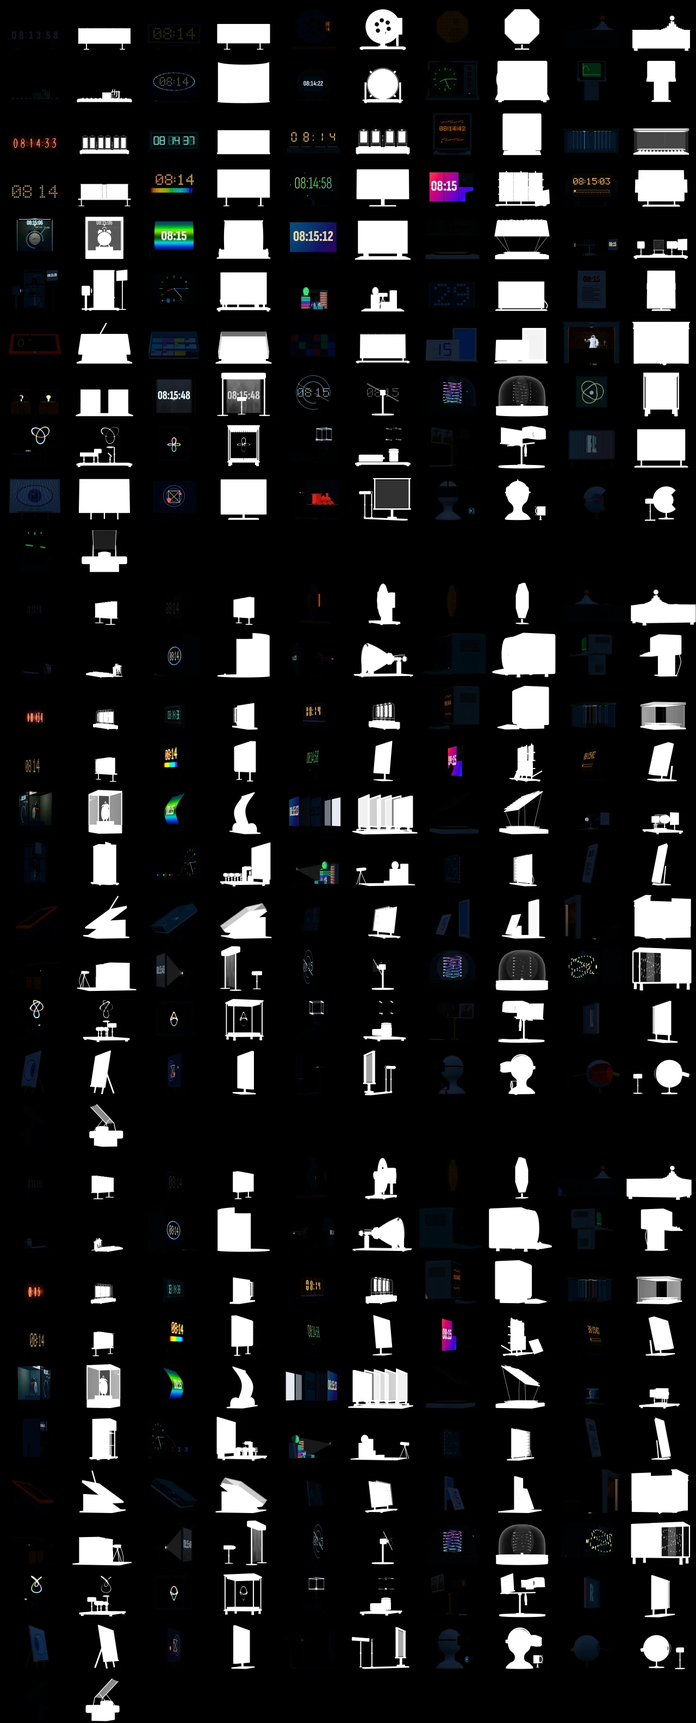
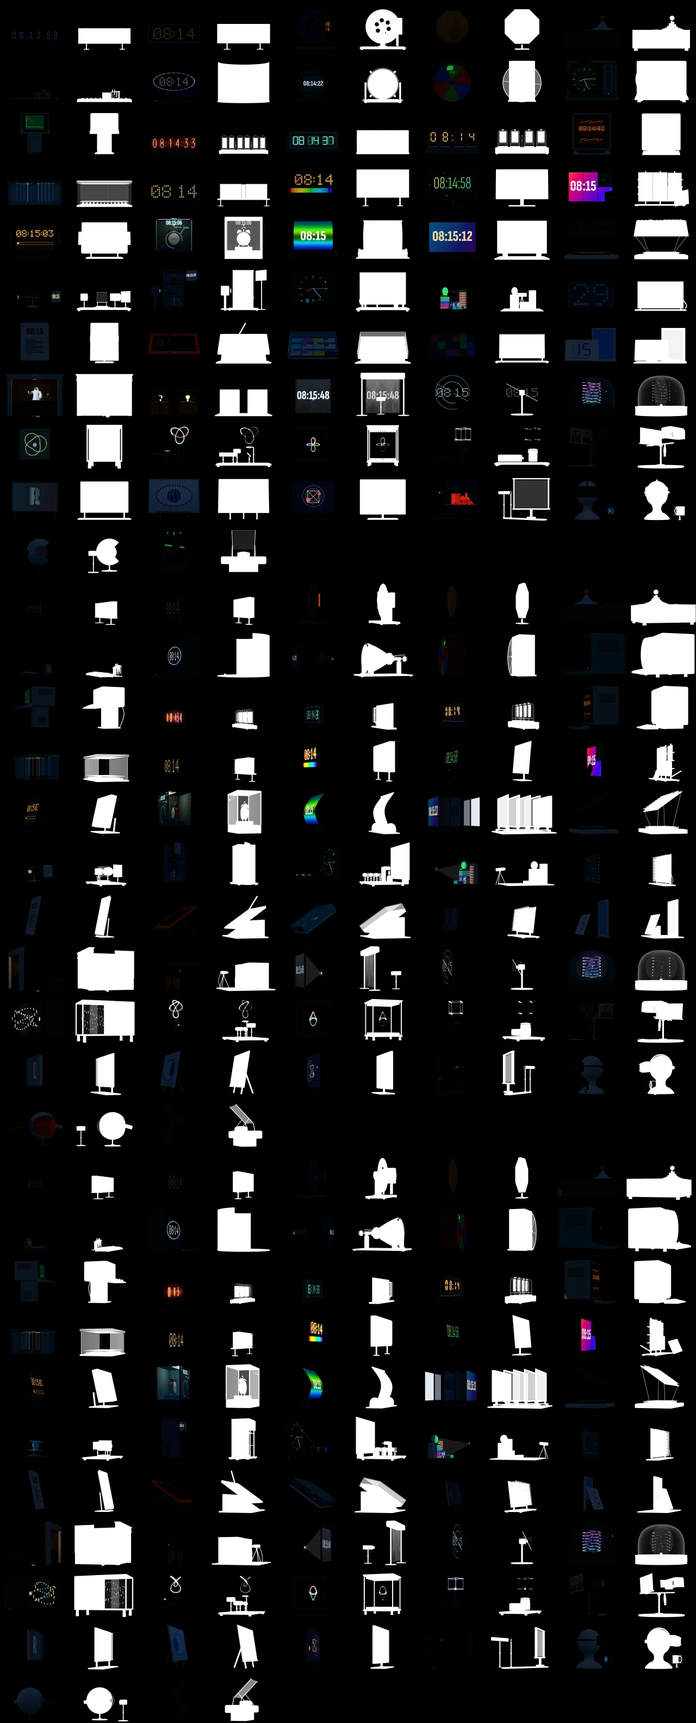
A new piece: the colour-wheel television of Guillermo González Camarena
Hall 2 gains a tenth piece. A black-and-white tube shows the red, green
and blue parts of a picture in turn, and a wheel of filters turning in
front of it colours each one. The model turns the wheel slowly first,
so that the three separate pictures can be seen on the tube, and then
at speed, where they merge. González Camarena patented the adapter in
Mexico on 19 August 1940, at the age of 23.

Label, sources, fact, People, still pictures and cut-outs, in all six
languages. The People section also names the German application of
1904 that already described a filter wheel, and CBS's own system.

Claude-Session: https://claude.ai/code/session_01KP7tcprV3yrddMW1oAunK2

diff --git a/src/i18n/locales/fr.ts b/src/i18n/locales/fr.ts
@@ -363,6 +363,19 @@ const locale: Locale = {
       bad: ['Devient plus profond et plus lourd, avec plus de vide à contenir, à mesure que l’écran grandit', 'Demande une haute tension, et son ampoule de verre subit la pression de l’air extérieur', 'Redessine sans cesse son image sans la conserver, si bien que l’image scintille'],
       look: 'Appuyez sur le bouton «\u202fS’asseoir devant\u202f». La bande brillante qui descend sur l’écran est l’endroit où le faisceau vient de tracer ses lignes. Le modèle ralentit ce mouvement environ 60\u00a0fois. Faites ensuite tourner le modèle et regardez de côté les bobines de cuivre du col, qui guident le faisceau.',
     },
+    'colour-wheel-television': {
+      name: 'Télévision à roue chromatique', aka: 'Couleur à trames séquentielles, adaptateur chromoscopique',
+      origin: 'Guillermo González Camarena, Mexico. Brevet mexicain du 19 août 1940, brevet américain délivré en 1942',
+      statusNote: 'Plus aucun téléviseur n’est construit ainsi. Le principe survit partout où un afficheur rapide reçoit ses trois couleurs tour à tour.',
+      lead: 'Un tube en noir et blanc montre l’une après l’autre les parties rouge, verte et bleue d’une image, et une roue de filtres qui tourne donne à chacune sa couleur.',
+      how: [
+        'Le tube ne produit que de la lumière blanche. Devant lui tourne un disque de filtres rouges, verts et bleus. Pendant que passe le filtre rouge, le tube montre la partie rouge de l’image. La partie verte suit derrière le filtre vert, puis la bleue. Une seconde roue tourne au même rythme devant la caméra. L’œil ne peut pas suivre les changements et voit une seule image en couleurs.',
+        'González Camarena a breveté son adaptateur au Mexique en 1940, à l’âge de 23 ans. Il l’a conçu pour s’adapter aux caméras et aux récepteurs en noir et blanc déjà en service. L’idée de la roue chromatique était plus ancienne\u202f: une demande de brevet allemande de 1904 en décrivait déjà une. La télévision a ensuite choisi des tubes qui montrent les trois couleurs en même temps.',
+      ],
+      good: ['Ajoute la couleur à un système en noir et blanc avec une seule pièce mobile', 'Se passe de motif de points colorés\u202f: l’image est aussi nette que le tube', 'Place les trois couleurs exactement au même endroit'],
+      bad: ['La roue doit être bien plus grande que l’image', 'Un objet rapide se décompose en éclairs rouges, verts et bleus', 'Le tube doit montrer trois images dans le temps d’une seule, sinon l’image scintille'],
+      look: 'La maquette fait d’abord tourner la roue lentement. Regardez l’écran placé derrière\u202f: le tube montre trois images différentes tour à tour, et les barres changent au passage de chaque filtre. Puis la roue tourne à pleine vitesse et les trois images se fondent en une seule. Éteignez la lumière du jour pour voir l’écran seul.',
+    },
     'vector-display': {
       name: 'Écran vectoriel', aka: 'Écran à balayage cavalier, moniteur XY',
       origin: 'Ordinateur Whirlwind du MIT, dont la démonstration Bouncing Ball tournait sur un tel écran',
@@ -947,6 +960,7 @@ const locale: Locale = {
     'braille-display': 'En 1985, le fisc américain employait déjà plus de 100\u00a0personnes aveugles ou malvoyantes pour répondre au téléphone aux questions des contribuables. Ses publications fiscales leur étaient fournies sur cassette, pour être lues en braille sur une plage de 20\u00a0cellules.',
     'drone-show': 'Le vol record montré à l’ouverture des Jeux olympiques d’hiver de 2018 était un enregistrement réalisé à l’avance. Un vol en direct était prévu pour le public du stade, puis il a été annulé à la dernière minute.',
     'cathode-ray-tube': 'Un tube image émet des rayons X quand il fonctionne, et son verre contient du plomb pour les arrêter. L’Agence américaine de protection de l’environnement indiquait en 2002 qu’un écran d’ordinateur ordinaire pouvait contenir jusqu’à huit livres de plomb, soit environ 3,6\u00a0kilogrammes.',
+    'colour-wheel-television': 'Le brevet original de 1940 est conservé aux archives nationales du Mexique, l’Archivo General de la Nación. González Camarena y présente son invention comme un adaptateur simple et nouveau, qui pouvait s’ajouter à n’importe quel téléviseur en noir et blanc de l’époque.',
     'vector-display': 'La console de salon Vectrex, sortie en 1982, avait un tube vectoriel intégré. Son écran était en noir et blanc\u202f: la couleur venait donc de feuilles de plastique posées sur le verre.',
     'storage-tube': 'Son ancêtre, le Memory Tube d’Andrew Haeff, dans les années\u00a01940, a été conçu comme une mémoire d’ordinateur, pour enregistrer des nombres et les relire. Les ordinateurs ont adopté un tube concurrent, et le principe a survécu comme écran, lu par une personne qui regarde le verre.',
     'nixie-tube': 'Le premier prototype de Burroughs a tenu une nuit\u202f: au matin, il s’était déposé tant de métal des chiffres à l’intérieur du verre qu’on ne les voyait plus. Un peu de vapeur de mercure a réglé le problème, et les tubes suivants ont fonctionné plus de 200\u202f000\u00a0heures.',
@@ -1001,6 +1015,7 @@ const locale: Locale = {
     'braille-display': { did: ['Ont breveté des points braille soulevés par des lames piézoélectriques. Leur première demande a été déposée en France, en 1974.', 'A inventé un module braille piézoélectrique en Allemagne en 1975.', 'A mis au point le plus ancien afficheur braille en état de marche dont on ait la trace, chez IBM vers 1950.'] },
     'drone-show': { did: ['Directeur de l’Ars Electronica Futurelab, à Linz. Son équipe et Intel ont fait voler 100\u00a0drones lumineux près de Hambourg en novembre 2015.'] },
     'cathode-ray-tube': { did: ['A construit le premier tube cathodique, en Allemagne en 1897.', 'A montré un récepteur de télévision à tube cathodique, au Japon en 1926.', 'A transmis la première image de télévision entièrement électronique, à San Francisco en 1927.', 'Surnommée Pem. Elle a travaillé aux côtés de Philo Farnsworth dans ses laboratoires, et son visage a été l’un des premiers que son système ait transmis.'] },
+    'colour-wheel-television': { did: ['Ingénieur électricien mexicain. Il a breveté l’adaptateur au Mexique en 1940, à l’âge de 23 ans, puis aux États-Unis deux ans plus tard.', 'Ont demandé en Allemagne, en 1904, un brevet pour un système de couleur à roue de filtres.', 'Ingénieur à la Columbia Broadcasting System, qui a construit dans les mêmes années sa propre télévision à roue chromatique.'] },
     'storage-tube': { did: ['A mis au point le tube à mémoire chez Tektronix.', 'A construit le Memory Tube dans les années 1940, l’ancêtre dont Tektronix a fait un écran.'] },
     'nixie-tube': { did: ['L’ingénieur le plus souvent cité comme son inventeur.'], note: 'La paternité de l’invention n’est pas claire. National Union vendait un tube semblable, l’Inditron, en 1954, et des brevets portant sur des chiffres dans des lampes à lueur remontent aux années\u00a01930.' },
     'vacuum-fluorescent': { did: ['Fondateur d’Ise Electronics, au Japon. Il a inventé l’afficheur et l’a mis en vente en 1967.', 'Dirigeait le développement des calculatrices chez Hayakawa Electric, aujourd’hui Sharp, et a demandé à Nakamura un afficheur à basse tension.'] },

diff --git a/src/i18n/locales/es.ts b/src/i18n/locales/es.ts
@@ -370,6 +370,19 @@ const locale: Locale = {
       bad: ['Se vuelve más profundo y pesado, y tiene más vacío que contener, a medida que crece la pantalla', 'Necesita un voltaje alto, y su ampolla de vidrio soporta la presión del aire exterior', 'Redibuja la imagen sin parar y no la retiene, así que la imagen parpadea'],
       look: 'Pulsa el botón «Siéntate delante». La franja brillante que baja por la pantalla es la zona donde el haz acaba de trazar sus líneas. El modelo ralentiza este proceso unas 60 veces. Después gira el modelo y mira de lado las bobinas de cobre del cuello, que guían el haz.',
     },
+    'colour-wheel-television': {
+      name: 'Televisión de rueda de colores', aka: 'Color secuencial de campos, adaptador cromoscópico',
+      origin: 'Guillermo González Camarena, Ciudad de México. Patente mexicana del 19 de agosto de 1940, patente de Estados Unidos concedida en 1942',
+      statusNote: 'Ya no se fabrica ningún televisor así. El principio sobrevive allí donde una pantalla rápida recibe sus tres colores por turnos.',
+      lead: 'Un tubo de imagen en blanco y negro muestra una tras otra las partes roja, verde y azul de una imagen, y una rueda giratoria de filtros da a cada parte su color.',
+      how: [
+        'El tubo solo produce luz blanca. Delante de él gira un disco con filtros rojos, verdes y azules. Mientras pasa el filtro rojo, el tubo muestra la parte roja de la imagen. Después llega la parte verde, tras el filtro verde, y luego la azul. Una segunda rueda gira al mismo ritmo delante de la cámara. El ojo no puede seguir los cambios y ve una sola imagen a todo color.',
+        'González Camarena patentó su adaptador en México en 1940, a los 23 años. Lo diseñó para acoplarlo a las cámaras y los receptores en blanco y negro que ya estaban en uso. La idea de la rueda de colores era más antigua: una solicitud de patente alemana de 1904 ya describía una. Más tarde, la televisión se decantó por tubos que muestran los tres colores a la vez.',
+      ],
+      good: ['Añade color a un sistema en blanco y negro con una sola pieza móvil', 'No necesita un patrón de puntos de colores, así que la imagen es tan nítida como el tubo', 'Pone los tres colores exactamente en el mismo lugar'],
+      bad: ['La rueda tiene que ser mucho mayor que la imagen', 'Un objeto que se mueve deprisa se descompone en destellos rojos, verdes y azules', 'El tubo debe mostrar tres imágenes en el tiempo de una, o la imagen parpadea'],
+      look: 'El modelo hace girar primero la rueda despacio. Observa la pantalla que hay detrás: el tubo muestra tres imágenes distintas por turnos, y las barras cambian al pasar cada filtro. Después la rueda gira deprisa y las tres imágenes se funden en una. Apaga la luz del día para ver la pantalla sola.',
+    },
     'vector-display': {
       name: 'Pantalla vectorial', aka: 'Pantalla caligráfica, monitor XY',
       origin: 'Ordenador Whirlwind del MIT, cuya demostración Bouncing Ball se mostraba en una pantalla de este tipo',
@@ -954,6 +967,7 @@ const locale: Locale = {
     'braille-display': 'En 1985 la agencia tributaria de Estados Unidos ya empleaba a más de 100 personas ciegas o con baja visión para atender por teléfono las preguntas de los contribuyentes. Sus publicaciones fiscales se les entregaban en cintas de casete, para leerlas en braille en una línea de 20 celdas.',
     'drone-show': 'El vuelo récord que se vio en la inauguración de los Juegos Olímpicos de Invierno de 2018 era una grabación hecha con antelación. Se había previsto un vuelo en directo para el público del estadio, y se canceló en el último momento.',
     'cathode-ray-tube': 'Un tubo de imagen emite rayos X mientras funciona, y el vidrio contiene plomo para detenerlos. La Agencia de Protección Ambiental de Estados Unidos dijo en 2002 que un monitor de ordenador corriente podía contener hasta ocho libras de plomo, unos 3,6 kilogramos.',
+    'colour-wheel-television': 'La patente original de 1940 se conserva en el archivo nacional de México, el Archivo General de la Nación. En ella, González Camarena describe su invento como un adaptador sencillo y novedoso que podía acoplarse a cualquier televisor en blanco y negro de la época.',
     'vector-display': 'La consola doméstica Vectrex, de 1982, llevaba incorporado un tubo vectorial. La pantalla era en blanco y negro, así que el color lo ponían unas láminas de plástico colocadas sobre el vidrio.',
     'storage-tube': 'Su antepasado, el Memory Tube de Andrew Haeff, de la década de 1940, se diseñó como memoria de ordenador, para guardar números y volver a leerlos. Los ordenadores adoptaron un tubo rival, y el diseño sobrevivió como pantalla, leída por una persona que mira el vidrio.',
     'nixie-tube': 'El primer prototipo de Burroughs duró una noche: por la mañana se había depositado tanto metal de las cifras en el interior del vidrio que ya no se veían. Un poco de vapor de mercurio resolvió el problema, y los tubos posteriores funcionaron más de 200.000 horas.',
@@ -1008,6 +1022,7 @@ const locale: Locale = {
     'braille-display': { did: ['Patentaron puntos braille levantados por láminas piezoeléctricas. Presentaron la primera solicitud en Francia, en 1974.', 'Inventó un módulo braille piezoeléctrico en Alemania en 1975.', 'Desarrolló la línea braille en funcionamiento más antigua de la que hay constancia, en IBM hacia 1950.'] },
     'drone-show': { did: ['Director del Ars Electronica Futurelab, en Linz. Su equipo e Intel hicieron volar 100 drones iluminados cerca de Hamburgo en noviembre de 2015.'] },
     'cathode-ray-tube': { did: ['Construyó el primer tubo de rayos catódicos, en Alemania en 1897.', 'Mostró un receptor de televisión basado en un tubo de rayos catódicos, en Japón en 1926.', 'Transmitió la primera imagen de televisión totalmente electrónica, en San Francisco en 1927.', 'Conocida como Pem. Trabajó junto a Philo Farnsworth en sus laboratorios, y su rostro estuvo entre los primeros que transmitió su sistema.'] },
+    'colour-wheel-television': { did: ['Ingeniero eléctrico mexicano. Patentó el adaptador en México en 1940, a los 23 años, y en Estados Unidos dos años después.', 'Solicitaron en Alemania, en 1904, una patente de un sistema de color con rueda de filtros.', 'Ingeniero de la Columbia Broadcasting System, que construyó en los mismos años su propia televisión de rueda de colores.'] },
     'storage-tube': { did: ['Desarrolló el tubo de almacenamiento en Tektronix.', 'Construyó el Memory Tube en la década de 1940, el antecesor que Tektronix convirtió en pantalla.'] },
     'nixie-tube': { did: ['El ingeniero al que más a menudo se nombra como su inventor.'], note: 'La autoría del invento no está clara. National Union vendía un tubo parecido, el Inditron, en 1954, y las patentes de cifras en lámparas de descarga luminiscente se remontan a la década de 1930.' },
     'vacuum-fluorescent': { did: ['Fundador de Ise Electronics, en Japón. Inventó la pantalla y la puso a la venta en 1967.', 'Dirigía el desarrollo de calculadoras en Hayakawa Electric, hoy Sharp, y pidió a Nakamura una pantalla de bajo voltaje.'] },

diff --git a/src/i18n/locales/ca.ts b/src/i18n/locales/ca.ts
@@ -438,6 +438,19 @@ const locale: Locale = {
       ],
       look: "Prem el botó «Seu al davant». La franja lluminosa que baixa per la pantalla és on el feix acaba de dibuixar les línies. El model ho alenteix unes 60 vegades. Després fes girar el model i mira de costat les bobines de coure del coll, que guien el feix.",
     },
+    'colour-wheel-television': {
+      name: 'Televisió de roda de colors', aka: 'Color seqüencial de camps, adaptador cromoscòpic',
+      origin: "Guillermo González Camarena, Ciutat de Mèxic. Patent mexicana del 19 d'agost del 1940, patent dels Estats Units concedida el 1942",
+      statusNote: 'Ja no es fabrica cap televisor així. El principi sobreviu allà on una pantalla ràpida rep els seus tres colors per torns.',
+      lead: "Un tub d'imatge en blanc i negre mostra una rere l'altra les parts vermella, verda i blava d'una imatge, i una roda giratòria de filtres dona a cada part el seu color.",
+      how: [
+        "El tub només fa llum blanca. Al seu davant gira un disc amb filtres vermells, verds i blaus. Mentre passa el filtre vermell, el tub mostra la part vermella de la imatge. Després ve la part verda, darrere el filtre verd, i després la blava. Una segona roda gira al mateix ritme davant de la càmera. L'ull no pot seguir els canvis i veu una sola imatge a tot color.",
+        'González Camarena va patentar el seu adaptador a Mèxic el 1940, als 23 anys. El va dissenyar per acoblar-lo a les càmeres i els receptors en blanc i negre que ja es feien servir. La idea de la roda de colors era més antiga: una sol·licitud de patent alemanya del 1904 ja en descrivia una. Més endavant, la televisió es va decantar per tubs que mostren els tres colors alhora.',
+      ],
+      good: ['Afegeix color a un sistema en blanc i negre amb una sola peça mòbil', 'No necessita cap patró de punts de colors, i per això la imatge és tan nítida com el tub', 'Posa els tres colors exactament al mateix lloc'],
+      bad: ['La roda ha de ser molt més gran que la imatge', 'Un objecte que es mou de pressa es descompon en llampades vermelles, verdes i blaves', "El tub ha de mostrar tres imatges en el temps d'una, o la imatge parpelleja"],
+      look: 'El model fa girar primer la roda a poc a poc. Mira la pantalla que hi ha al darrere: el tub mostra tres imatges diferents per torns, i les barres canvien cada cop que passa un filtre. Després la roda gira de pressa i les tres imatges es fonen en una. Apaga la llum del dia per veure la pantalla sola.',
+    },
     'vector-display': {
       name: "Pantalla vectorial",
       aka: "Pantalla cal·ligràfica, monitor XY",
@@ -1368,6 +1381,7 @@ const locale: Locale = {
     'braille-display': "El 1985 l'agència tributària dels Estats Units ja tenia més de 100 treballadors cecs o amb baixa visió per respondre per telèfon les preguntes dels contribuents. Les publicacions fiscals els arribaven en cintes de casset, per llegir-les en braille en una línia de 20 cel·les.",
     'drone-show': "El vol de rècord que es va veure a la inauguració dels Jocs Olímpics d'Hivern del 2018 era un enregistrament fet amb antelació. S'havia previst un vol en directe per al públic de l'estadi, i es va cancel·lar a l'últim moment.",
     'cathode-ray-tube': "Un tub d'imatge emet raigs X mentre funciona, i el vidre conté plom per aturar-los. L'Agència de Protecció Ambiental dels Estats Units va dir el 2002 que un monitor d'ordinador corrent podia contenir fins a vuit lliures de plom, uns 3,6 quilograms.",
+    'colour-wheel-television': "La patent original del 1940 es conserva a l'arxiu nacional de Mèxic, l'Archivo General de la Nación. González Camarena hi descriu el seu invent com un adaptador senzill i nou que es podia acoblar a qualsevol televisor en blanc i negre de l'època.",
     'vector-display': "La consola domèstica Vectrex, del 1982, portava un tub vectorial incorporat. La pantalla era en blanc i negre, de manera que el color el posaven unes làmines de plàstic col·locades sobre el vidre.",
     'storage-tube': "El seu avantpassat, el Memory Tube d'Andrew Haeff, de la dècada del 1940, es va dissenyar com a memòria d'ordinador, per guardar nombres i tornar-los a llegir. Els ordinadors van adoptar un tub rival, i el disseny va sobreviure com a pantalla, llegida per una persona que mira el vidre.",
     'nixie-tube': "El primer prototip de Burroughs va durar una nit: al matí s'havia dipositat tant de metall de les xifres a l'interior del vidre que ja no es veien. Una mica de vapor de mercuri va resoldre el problema, i els tubs posteriors van funcionar més de 200.000 hores.",
@@ -1422,6 +1436,7 @@ const locale: Locale = {
     'braille-display': { did: ['Van patentar punts braille aixecats per làmines piezoelèctriques. Van presentar la primera sol·licitud a França, el 1974.', 'Va inventar un mòdul braille piezoelèctric a Alemanya el 1975.', 'Va desenvolupar la línia braille en funcionament més antiga de què hi ha constància, a IBM cap al 1950.'] },
     'drone-show': { did: ["Director de l'Ars Electronica Futurelab, a Linz. El seu equip i Intel van fer volar 100 drons il·luminats prop d'Hamburg el novembre del 2015."] },
     'cathode-ray-tube': { did: ['Va construir el primer tub de raigs catòdics, a Alemanya el 1897.', 'Va mostrar un receptor de televisió basat en un tub de raigs catòdics, al Japó el 1926.', 'Va transmetre la primera imatge de televisió totalment electrònica, a San Francisco el 1927.', 'Coneguda com a Pem. Va treballar al costat de Philo Farnsworth als seus laboratoris, i la seva cara va ser una de les primeres que el sistema va transmetre.'] },
+    'colour-wheel-television': { did: ["Enginyer elèctric mexicà. Va patentar l'adaptador a Mèxic el 1940, als 23 anys, i als Estats Units dos anys després.", "Van sol·licitar a Alemanya, el 1904, una patent d'un sistema de color amb roda de filtres.", 'Enginyer de la Columbia Broadcasting System, que va construir en els mateixos anys la seva pròpia televisió de roda de colors.'] },
     'storage-tube': { did: ["Va desenvolupar el tub d'emmagatzematge a Tektronix.", "Va construir el Memory Tube a la dècada del 1940, l'avantpassat que Tektronix va convertir en pantalla."] },
     'nixie-tube': { did: ["L'enginyer a qui més sovint s'anomena com a inventor."], note: "L'autoria de l'invent no és clara. National Union ja venia un tub semblant, l'Inditron, el 1954, i les patents de xifres en làmpades de descàrrega luminescent es remunten a la dècada del 1930." },
     'vacuum-fluorescent': { did: ["Fundador d'Ise Electronics, al Japó. Va inventar la pantalla i la va posar a la venda el 1967.", 'Dirigia el desenvolupament de calculadores a Hayakawa Electric, avui Sharp, i va demanar a Nakamura una pantalla de baix voltatge.'] },

diff --git a/src/i18n/locales/de.ts b/src/i18n/locales/de.ts
@@ -437,6 +437,19 @@ const locale: Locale = {
       ],
       look: 'Drücken Sie auf „Davorsetzen“. Das helle Band, das über den Schirm nach unten wandert, zeigt, wo der Strahl gerade seine Zeilen gezeichnet hat. Das Modell verlangsamt das etwa 60-fach. Drehen Sie dann das Modell und betrachten Sie von der Seite die Kupferspulen am Hals, die den Strahl lenken.',
     },
+    'colour-wheel-television': {
+      name: 'Farbradfernsehen', aka: 'Zeitsequentielles Farbverfahren, chromoskopischer Adapter',
+      origin: 'Guillermo González Camarena, Mexiko-Stadt. Mexikanisches Patent vom 19. August 1940, US-Patent 1942 erteilt',
+      statusNote: 'Kein Fernseher wird heute noch so gebaut. Das Prinzip lebt überall dort weiter, wo eine schnelle Anzeige ihre drei Farben nacheinander erhält.',
+      lead: 'Eine Schwarz-Weiß-Bildröhre zeigt nacheinander den roten, den grünen und den blauen Anteil eines Bildes, und ein rotierendes Filterrad gibt jedem Anteil seine Farbe.',
+      how: [
+        'Die Röhre selbst erzeugt nur weißes Licht. Vor ihr dreht sich eine Scheibe mit roten, grünen und blauen Filtern. Während der rote Filter vorbeiläuft, zeigt die Röhre den roten Anteil des Bildes. Der grüne Anteil folgt hinter dem grünen Filter, danach der blaue. Ein zweites Rad dreht sich im Gleichtakt vor der Kamera. Das Auge kann den Wechseln nicht folgen und sieht ein einziges Bild in voller Farbe.',
+        'González Camarena ließ seinen Adapter 1940 in Mexiko patentieren, im Alter von 23 Jahren. Er entwarf ihn so, dass er sich an die Schwarz-Weiß-Kameras und -Empfänger anbauen ließ, die bereits in Gebrauch waren. Die Idee des Farbrads war älter: Schon eine deutsche Patentanmeldung von 1904 beschrieb eines. Das Fernsehen entschied sich später für Röhren, die alle drei Farben gleichzeitig zeigen.',
+      ],
+      good: ['Bringt mit einem einzigen beweglichen Teil Farbe in ein Schwarz-Weiß-System', 'Kommt ohne Raster aus Farbpunkten aus, das Bild ist also so scharf wie die Röhre', 'Bringt alle drei Farben an genau dieselbe Stelle'],
+      bad: ['Das Rad muss viel größer sein als das Bild', 'Ein schnell bewegter Gegenstand zerfällt in rote, grüne und blaue Blitze', 'Die Röhre muss drei Bilder in der Zeit von einem zeigen, sonst flimmert das Bild'],
+      look: 'Das Modell dreht das Rad zuerst langsam. Beobachten Sie den Bildschirm dahinter: Die Röhre zeigt nacheinander drei verschiedene Bilder, und die Balken wechseln mit jedem Filter. Dann läuft das Rad schnell, und die drei Bilder verschmelzen zu einem. Schalten Sie das Tageslicht aus, um den Bildschirm allein zu sehen.',
+    },
     'vector-display': {
       name: 'Vektorbildschirm',
       aka: 'Kalligrafischer Bildschirm, XY-Monitor',
@@ -1367,6 +1380,7 @@ const locale: Locale = {
     'braille-display': '1985 beschäftigte die Steuerbehörde der USA bereits mehr als 100\u00a0blinde und sehbehinderte Mitarbeiter, die am Telefon Fragen von Steuerzahlern beantworteten. Die Steuerschriften erhielten sie auf Kassette und lasen sie als Braille auf einer Zeile mit 20\u00a0Zellen.',
     'drone-show': 'Der Rekordflug, der bei der Eröffnung der Olympischen Winterspiele 2018 zu sehen war, war eine vorab gedrehte Aufzeichnung. Ein Liveflug für das Publikum im Stadion war geplant und wurde in letzter Minute abgesagt.',
     'cathode-ray-tube': 'Eine Bildröhre gibt im Betrieb Röntgenstrahlen ab, und das Glas enthält Blei, um sie aufzuhalten. Die Umweltschutzbehörde der USA erklärte 2002, ein typischer Computermonitor könne bis zu acht Pfund Blei enthalten, etwa 3,6\u00a0Kilogramm.',
+    'colour-wheel-television': 'Das Originalpatent von 1940 liegt im mexikanischen Nationalarchiv, dem Archivo General de la Nación. Darin nennt González Camarena seine Erfindung einen einfachen und neuartigen Adapter, der sich an jeden Schwarz-Weiß-Fernseher seiner Zeit anbauen ließ.',
     'vector-display': 'Die Heimkonsole Vectrex von 1982 hatte eine Vektorröhre eingebaut. Ihr Bildschirm war schwarz-weiß, also kam die Farbe von Kunststofffolien, die man auf das Glas legte.',
     'storage-tube': 'Ihr Vorläufer, Andrew Haeffs Memory Tube aus den 1940er-Jahren, war als Computerspeicher gedacht: Er sollte Zahlen speichern und wieder auslesen. Die Computer übernahmen stattdessen eine Konkurrenzröhre, und der Entwurf überlebte als Bildschirm, abgelesen von einem Menschen, der auf das Glas schaut.',
     'nixie-tube': 'Der erste Prototyp bei Burroughs hielt eine Nacht: Am Morgen hatte sich so viel Metall von den Ziffern innen am Glas abgesetzt, dass sie nicht mehr zu sehen waren. Ein wenig Quecksilberdampf löste das Problem, und spätere Röhren liefen mehr als 200.000\u00a0Stunden.',
@@ -1421,6 +1435,7 @@ const locale: Locale = {
     'braille-display': { did: ['Ließen sich Braillepunkte patentieren, die von piezoelektrischen Zungen angehoben werden. Die erste Anmeldung erfolgte 1974 in Frankreich.', 'Erfand 1975 in Deutschland ein piezoelektrisches Braillemodul.', 'Entwickelte um 1950 bei IBM die früheste belegte funktionierende Braillezeile.'] },
     'drone-show': { did: ['Leiter des Ars Electronica Futurelab in Linz. Sein Team und Intel ließen im November 2015 bei Hamburg 100 leuchtende Drohnen fliegen.'] },
     'cathode-ray-tube': { did: ['Baute 1897 in Deutschland die erste Kathodenstrahlröhre.', 'Zeigte 1926 in Japan einen Fernsehempfänger mit Kathodenstrahlröhre.', 'Übertrug 1927 in San Francisco das erste vollelektronische Fernsehbild.', 'Genannt Pem. Sie arbeitete in den Laboren von Philo Farnsworth an seiner Seite, und ihr Gesicht gehörte zu den ersten, die sein System übertrug.'] },
+    'colour-wheel-television': { did: ['Mexikanischer Elektroingenieur. Er ließ den Adapter 1940 in Mexiko patentieren, im Alter von 23 Jahren, und zwei Jahre später in den USA.', 'Meldeten 1904 in Deutschland ein Patent auf ein Farbverfahren mit Filterrad an.', 'Ingenieur beim Columbia Broadcasting System, das in denselben Jahren sein eigenes Farbradfernsehen baute.'] },
     'storage-tube': { did: ['Entwickelte die Speicherröhre bei Tektronix.', 'Baute in den 1940er-Jahren die Memory Tube, den Vorläufer, aus dem Tektronix einen Bildschirm machte.'] },
     'nixie-tube': { did: ['Der Ingenieur, der am häufigsten als Erfinder genannt wird.'], note: 'Wem die Erfindung zuzuschreiben ist, steht nicht fest. National Union verkaufte 1954 eine ähnliche Röhre, das Inditron, und Patente für Ziffern in Glimmlampen reichen bis in die 1930er-Jahre zurück.' },
     'vacuum-fluorescent': { did: ['Gründer von Ise Electronics in Japan. Er erfand die Anzeige und brachte sie 1967 auf den Markt.', 'Leitete die Rechnerentwicklung bei Hayakawa Electric, heute Sharp, und bat Nakamura um eine Anzeige für niedrige Spannung.'] },

diff --git a/src/i18n/locales/zh.ts b/src/i18n/locales/zh.ts
@@ -434,6 +434,19 @@ const locale: Locale = {
       ],
       look: '按“坐到正前方”按钮。屏幕上那条向下移动的亮带，就是电子束刚刚画过的几行。模型把这个过程放慢了大约60倍。然后转动模型，从侧面看管颈上的铜线圈，电子束就是由它们操纵的。',
     },
+    'colour-wheel-television': {
+      name: '色轮电视', aka: '场序制彩色，色镜适配器',
+      origin: 'Guillermo González Camarena，墨西哥城。1940年8月19日获墨西哥专利，1942年获美国专利',
+      statusNote: '如今已没有电视机这样制造。凡是让一块高速显示器轮流得到三种颜色的地方，这一原理都还在用。',
+      lead: '一支黑白显像管依次显示画面的红、绿、蓝三部分，一只旋转的滤色轮给每一部分配上颜色。',
+      how: [
+        '显像管本身只发白光。它前面转着一只装有红、绿、蓝滤色片的圆盘。红色滤色片经过时，显像管显示画面的红色部分；接着是绿色滤色片后面的绿色部分，然后是蓝色部分。摄像机前面有第二只滤色轮同步转动。眼睛跟不上这些变化，看到的是一幅全彩画面。',
+        '1940年，23岁的González Camarena在墨西哥为他的适配器取得专利。按他的设计，它可以装到当时已在使用的黑白摄像机和接收机上。色轮的想法更早：1904年的一份德国专利申请就已描述过。后来电视选择了能同时显示三种颜色的显像管。',
+      ],
+      good: ['只用一个活动部件，就给黑白系统加上了颜色', '不需要彩色点阵，所以画面和显像管本身一样清晰', '三种颜色落在完全相同的位置'],
+      bad: ['色轮必须比画面大得多', '快速运动的物体会散成红、绿、蓝的闪光', '显像管必须在一幅画面的时间里显示三幅，否则画面会闪烁'],
+      look: '模型先让色轮慢慢转。看它后面的屏幕：显像管轮流显示三幅不同的画面，每过一片滤色片，彩条就变一次。接着色轮高速转动，三幅画面合成一幅。关掉日光，可以单独看屏幕。',
+    },
     'vector-display': {
       name: '矢量显示器',
       aka: '笔迹显示器、XY显示器',
@@ -1364,6 +1377,7 @@ const locale: Locale = {
     'braille-display': '到1985年，美国税务部门已经雇用了100多名盲人和低视力员工，在电话里解答纳税人的问题。税务资料录在盒式磁带上发给他们，再用一台20个单元的点显器读成盲文。',
     'drone-show': '2018年冬奥会开幕式上播出的那场创纪录的飞行，是事先录好的。原本计划为现场观众实地飞一场，在最后一刻取消了。',
     'cathode-ray-tube': '显像管工作时会放出X射线，玻璃里掺了铅，用来挡住它们。美国环境保护署在2002年说，一台普通的电脑显示器最多可含8磅铅，约合3.6千克。',
+    'colour-wheel-television': '这份1940年的专利原件保存在墨西哥国家档案馆（Archivo General de la Nación）。González Camarena在其中说，他的发明是一种简单而新颖的适配器，可以装到当时任何一台黑白电视机上。',
     'vector-display': '1982年的家用游戏机Vectrex自带一只矢量显像管。屏幕是黑白的，颜色要靠盖在玻璃上的塑料片。',
     'storage-tube': '它的前身是Andrew Haeff在1940年代研制的Memory Tube，本来是当计算机存储器设计的，用来存数字，再把数字读出来。计算机后来选用了另一种管子，这个设计却作为屏幕留了下来，由人看着玻璃来读。',
     'nixie-tube': 'Burroughs公司的第一只样管只撑了一夜：到了早上，数字上的金属在玻璃内壁积了厚厚一层，数字已经看不见了。加进一点汞蒸气就解决了问题，后来的管子能工作20万小时以上。',
@@ -1418,6 +1432,7 @@ const locale: Locale = {
     'braille-display': { did: ['为压电簧片顶起的盲文点取得专利，1974年首先在法国提出申请。', '1975年在德国发明了压电盲文模块。', '约1950年在IBM研制出有记录的最早一台可用的盲文显示器。'] },
     'drone-show': { did: ['林茨Ars Electronica Futurelab的负责人。2015年11月，他的团队与英特尔在汉堡附近放飞了100架带灯的无人机。'] },
     'cathode-ray-tube': { did: ['1897年在德国造出第一支阴极射线管。', '1926年在日本展示了用阴极射线管做的电视接收机。', '1927年在旧金山传送出第一幅全电子电视图像。', '人称Pem。她在Philo Farnsworth的实验室里与他一同工作，她的面孔是这套系统最早传送的图像之一。'] },
+    'colour-wheel-television': { did: ['墨西哥电气工程师。1940年，23岁的他在墨西哥为这种适配器取得专利，两年后又在美国取得专利。', '1904年在德国为一种带滤色轮的彩色系统申请专利。', '哥伦比亚广播公司（CBS）的工程师，该公司在同一时期造出了自己的色轮电视。'] },
     'storage-tube': { did: ['在Tektronix研制出存储管。', '1940年代造出Memory Tube，Tektronix后来把这个前身做成了屏幕。'] },
     'nixie-tube': { did: ['最常被称为其发明者的工程师。'], note: '这项发明该归功于谁，并不清楚。National Union公司在1954年就卖过一种类似的管子，叫Inditron；在辉光灯里显示数字的专利，更可以追溯到1930年代。' },
     'vacuum-fluorescent': { did: ['日本Ise Electronics的创办人。他发明了这种显示器，并在1967年推出销售。', '在Hayakawa Electric（今Sharp）主持计算器开发，请Nakamura做一种低电压显示器。'] },

diff --git a/src/three/models/h2.ts b/src/three/models/h2.ts
@@ -474,3 +474,63 @@ export function eggcrate(): Built {
     },
   };
 }
+
+/**
+ * Colour-wheel television. A black-and-white tube shows the red, green and blue parts of a picture in turn, and a
+ * wheel of filters turning in front of it colours each one. The model runs slowly first, so that the three
+ * separate pictures can be seen, and then at speed, where they merge.
+ */
+export function colourWheel(): Built {
+  const root = G.group();
+  const s = screen(384, 288), tube = M.lit(s, 1.5, 0.5);
+  const walnut = M.wood(0x5a3b22), trim = M.wood(0x2e1e12);
+  // SY: the height of the middle of the screen. AXLE: the height of the wheel's axle. R: the size of the wheel. FACE: the front of the cabinet.
+  const SY = 1.04, AXLE = 0.62, R = 0.62, FACE = 0.3, W = 384, H = 288;
+  root.add(G.rbox(0.92, 0.05, 0.64, 0.015, trim, [0, 0.025, 0]), G.rbox(0.86, 1.3, 0.56, 0.03, walnut, [0, 0.7, 0]));
+  root.add(G.bezel(0.52, 0.44, 0.36, 0.28, 0.05, 0.03, trim, [0, SY, FACE - 0.02]), G.bulge(0.37, 0.29, 0.03, tube, [0, SY, FACE - 0.03]));
+  root.add(G.box(0.5, 0.26, 0.012, M.cloth(0x6b5a3a), [0, 0.36, FACE - 0.014], 0), knob(0.034, [-0.32, 0.66, FACE - 0.02]), knob(0.034, [0.32, 0.66, FACE - 0.02]));
+  // the wheel: six filters, two of each colour, on an axle below the screen, driven by a motor on the cabinet's face
+  const COLOURS = [0xff2a1a, 0x1fd13a, 0x2a4bff];
+  const wheel = G.group(), filters: THREE.MeshStandardMaterial[] = [];
+  for (let i = 0; i < 6; i++) {
+    const m = new THREE.MeshStandardMaterial({ color: COLOURS[i % 3], transparent: true, opacity: 0.4, roughness: 0.15, metalness: 0, side: THREE.DoubleSide, depthWrite: false });
+    filters.push(m);
+    wheel.add(new THREE.Mesh(new THREE.CircleGeometry(R, 20, (i * Math.PI) / 3, Math.PI / 3), m));
+    wheel.add(G.rod([0, 0, 0], [R * Math.cos((i * Math.PI) / 3), R * Math.sin((i * Math.PI) / 3), 0], 0.006, M.steel()));
+  }
+  const blur = new THREE.MeshStandardMaterial({ color: 0xa9a2b4, transparent: true, opacity: 0, roughness: 0.2, side: THREE.DoubleSide, depthWrite: false });
+  wheel.add(new THREE.Mesh(new THREE.CircleGeometry(R, 48), blur), G.torus(R, 0.01, M.steel(), [0, 0, 0]), G.cyl(0.05, 0.035, M.dark(), [0, 0, 0], 24).rotateX(Math.PI / 2));
+  wheel.position.set(0, AXLE, FACE + 0.07);
+  root.add(wheel, G.cyl(0.08, 0.09, M.dark(1), [0, AXLE, FACE + 0.02], 28).rotateX(Math.PI / 2), G.box(0.3, 0.05, 0.03, M.steel(), [0, AXLE - 0.09, FACE + 0.005], 0));
+  // the picture: colour bars above the time. One field of it is that colour's share, shown in white light
+  const BARS: [number, number, number][] = [[1, 1, 1], [1, 1, 0], [0, 1, 1], [0, 1, 0], [1, 0, 1], [1, 0, 0], [0, 0, 1]];
+  const INK: [number, number, number] = [1, 0.62, 0.12];
+  const paint = (field: number, text: string) => {
+    const { ctx } = s;
+    const tone = (c: [number, number, number]) => {
+      if (field === 3) return `rgb(${c.map((x) => Math.round(255 * x)).join(',')})`;
+      const g = Math.round(255 * c[field]);
+      return `rgb(${g},${g},${g})`;
+    };
+    ctx.fillStyle = '#050505'; ctx.fillRect(0, 0, W, H);
+    BARS.forEach((c, i) => { ctx.fillStyle = tone(c); ctx.fillRect(Math.round((i * W) / 7), 0, Math.ceil(W / 7), H * 0.5); });
+    ctx.save(); ctx.translate(0, H * 0.5); bigTime(ctx, W, H * 0.5, text, tone(INK), 800, 0.8); ctx.restore();
+    s.tex.needsUpdate = true;
+  };
+  let angle = 0, before = 0, shown = -1, label = '';
+  return {
+    root, inDark: 'glows', glow: 0xcfd6ff, view: [20, 8], surface: s.canvas,
+    update: ({ t }) => {
+      const fast = t % 16 >= 8; // eight seconds slowly, then eight at speed
+      angle += (fast ? 11 : 0.85) * Math.min(0.1, Math.max(0, t - before)); before = t;
+      wheel.rotation.z = -angle;
+      // the filter that stands in front of the screen, which is straight above the axle
+      const k = Math.floor((((Math.PI / 2 + angle) % (2 * Math.PI)) + 2 * Math.PI) % (2 * Math.PI) / (Math.PI / 3)) % 3;
+      const field = fast ? 3 : k, text = now().hhmm;
+      if (field !== shown || text !== label) { paint(field, text); shown = field; label = text; }
+      tube.emissive.setHex(fast ? 0xffffff : COLOURS[k]);
+      for (const m of filters) m.opacity = fast ? 0.13 : 0.4;
+      blur.opacity = fast ? 0.2 : 0;
+    },
+  };
+}

diff --git a/src/data/pieces/h2.ts b/src/data/pieces/h2.ts
@@ -1,5 +1,5 @@
 import type { Piece } from '../schema';
-import { wiki } from './src';
+import { src, wiki } from './src';
 
 export const h2: Piece[] = [
   {
@@ -16,6 +16,21 @@ export const h2: Piece[] = [
     bad: ['Becomes deeper and heavier, with more vacuum to hold, as the screen grows', 'Needs a high voltage, and its glass bulb is under pressure from the air outside', 'Redraws its picture constantly and does not hold it, so the picture flickers'],
     look: 'Press the Sit in front button. The bright band that moves down the screen is where the beam has just drawn its lines. The model slows this about 60 times. Then turn the model and look from the side at the copper coils on the neck, which steer the beam.',
     sources: [wiki('Cathode_ray_tube', 'Cathode ray tube'), wiki('Shadow_mask', 'Shadow mask')],
+  },
+  {
+    id: 'colour-wheel-television', hall: 2, name: 'Colour-wheel television', aka: 'Field-sequential colour, chromoscopic adapter',
+    year: 1940, origin: 'Guillermo González Camarena, Mexico City. Mexican patent of 19 August 1940, United States patent granted in 1942',
+    status: 'niche', statusNote: 'No television set is built this way now. The principle survives where one fast display is given its three colours in turn.',
+    principle: 'emits', needs: [],
+    lead: 'A black-and-white picture tube shows the red, green and blue parts of a picture one after another, and a spinning wheel of filters gives each part its colour.',
+    how: [
+      'The tube itself makes only white light. In front of it turns a disc of red, green and blue filters. While the red filter passes, the tube shows the red part of the picture. The green part follows behind the green filter, and then the blue. A second wheel turns in step in front of the camera. The eye cannot follow the changes and sees one picture in full colour.',
+      'González Camarena patented his adapter in Mexico in 1940, at the age of 23. He designed it to be fitted to the black-and-white cameras and receivers already in use. The idea of a colour wheel was older: a German patent application of 1904 already described one. Television later settled on tubes that show the three colours at the same time.',
+    ],
+    good: ['Adds colour to a black-and-white system with one moving part', 'Needs no pattern of coloured dots, so the picture is as sharp as the tube', 'Puts all three colours in exactly the same place'],
+    bad: ['The wheel has to be much larger than the picture', 'A fast-moving object breaks up into flashes of red, green and blue', 'The tube must show three pictures in the time of one, or the picture flickers'],
+    look: 'The model first turns the wheel slowly. Watch the screen behind it: the tube shows three different pictures in turn, and the bars change as each filter passes. Then the wheel runs at speed and the three pictures merge into one. Switch the daylight off to see the screen alone.',
+    sources: [src('patent', 'González Camarena, US patent 2,296,019', 'https://patents.google.com/patent/US2296019'), src('archive', 'The Original Patent For Color Television Explained, Archivo General de la Nación', 'https://artsandculture.google.com/story/qQVxulIPRfmyJw'), wiki('Field-sequential_color_system', 'Field-sequential color system'), wiki('Guillermo_Gonz%C3%A1lez_Camarena', 'Guillermo González Camarena')],
   },
   {
     id: 'vector-display', hall: 2, name: 'Vector display', aka: 'Calligraphic display, XY monitor',

diff --git a/src/data/facts-a.ts b/src/data/facts-a.ts
@@ -37,6 +37,10 @@ export const factsA: Record<string, Fact> = {
     text: 'A picture tube gives off X-rays while it runs, and the glass contains lead to stop them. The United States Environmental Protection Agency said in 2002 that a typical computer monitor could hold up to eight pounds of lead, about 3.6 kilograms.',
     source: { label: 'EPA Proposes Easing Barriers to Encourage Recycling of Computers, Televisions and Mercury-Containing Equipment, U.S. Environmental Protection Agency (2002)', url: 'https://www.epa.gov/archive/epapages/newsroom_archive/newsreleases/c414f152eb0f1abf85256bc80055308a.html', kind: 'archive' },
   },
+  'colour-wheel-television': {
+    text: 'The original patent of 1940 is kept in the national archive of Mexico, the Archivo General de la Nación. In it González Camarena calls his invention a simple and novel adapter that could be fitted to any black-and-white television of the day.',
+    source: { label: 'The Original Patent For Color Television Explained, Archivo General de la Nación', url: 'https://artsandculture.google.com/story/qQVxulIPRfmyJw', kind: 'archive' },
+  },
   'vector-display': {
     text: 'The Vectrex home console of 1982 had a vector tube built in. Its screen was black and white, so colour came from plastic sheets laid over the glass.',
     source: { label: 'Vectrex Game Console, Computer History Museum', url: 'https://www.computerhistory.org/revolution/computer-games/16/210/873', kind: 'archive' },

diff --git a/src/data/people.ts b/src/data/people.ts
@@ -64,6 +64,13 @@ export const people: Record<string, Credit> = {
     ],
     sources: [src('press', 'Woman who helped invent TV dies at 98, Associated Press (2006)', 'https://www.nbcnews.com/id/wbna12596707')],
   },
+  'colour-wheel-television': {
+    people: [
+      { who: ['Guillermo González Camarena'], did: 'Mexican electrical engineer. He patented the adapter in Mexico in 1940, at the age of 23, and in the United States two years later.' },
+      { who: ['A. Frankenstein', 'Werner von Jaworski'], did: 'Applied in Germany in 1904 for a patent on a colour system with a filter wheel.' },
+      { who: ['Peter Goldmark'], did: 'Engineer at the Columbia Broadcasting System, which built its own colour-wheel television in the same years.' },
+    ],
+  },
   'storage-tube': {
     people: [
       { who: ['Robert H. Anderson'], did: 'Developed the storage tube at Tektronix.' },

diff --git a/src/three/models/index.ts b/src/three/models/index.ts
@@ -17,6 +17,7 @@ export const builders: Record<string, () => Built> = {
   'braille-display': h1.braille,
   'drone-show': h1.droneShow,
   'cathode-ray-tube': h2.crt,
+  'colour-wheel-television': h2.colourWheel,
   'vector-display': h2.vector,
   'storage-tube': h2.storageTube,
   'nixie-tube': h2.nixie,

diff --git a/src/three/walk/glows.ts b/src/three/walk/glows.ts
@@ -4,6 +4,7 @@ export const glows: Record<string, number> = {
   'mechanical-television': 0xff5a1e,
   'drone-show': 0x8fb4ff,
   'cathode-ray-tube': 0xbfd8ff,
+  'colour-wheel-television': 0xcfd6ff,
   'vector-display': 0x58ff8a,
   'storage-tube': 0x4dff86,
   'nixie-tube': 0xff6a1a,

diff --git a/PORTRAITS.md b/PORTRAITS.md
@@ -1,6 +1,6 @@
 # Portraits
 
-The labels name 100 people. Each one has a place for a portrait, and the place stays empty until a picture is added by hand. Nothing in the build fetches a picture.
+The labels name 104 people. Each one has a place for a portrait, and the place stays empty until a picture is added by hand. Nothing in the build fetches a picture.
 
 ## Adding a portrait
 
@@ -50,6 +50,10 @@ Take the picture from the person's own article or file page, where the caption s
 | Kenjiro Takayanagi | Cathode ray tube | Showed a television receiver built on a cathode ray tube, in Japan in 1926. | `public/people/kenjiro-takayanagi.jpg` |
 | Philo Farnsworth | Cathode ray tube | Sent the first all-electronic television picture, in San Francisco in 1927. | `public/people/philo-farnsworth.jpg` |
 | Elma Farnsworth | Cathode ray tube | Known as Pem. She worked beside Philo Farnsworth in his laboratories, and her face was among the first that his system sent. | `public/people/elma-farnsworth.jpg` |
+| Guillermo González Camarena | Colour-wheel television | Mexican electrical engineer. He patented the adapter in Mexico in 1940, at the age of 23, and in the United States two years later. | `public/people/guillermo-gonzalez-camarena.jpg` |
+| A. Frankenstein | Colour-wheel television | Applied in Germany in 1904 for a patent on a colour system with a filter wheel. | `public/people/a-frankenstein.jpg` |
+| Werner von Jaworski | Colour-wheel television | Applied in Germany in 1904 for a patent on a colour system with a filter wheel. | `public/people/werner-von-jaworski.jpg` |
+| Peter Goldmark | Colour-wheel television | Engineer at the Columbia Broadcasting System, which built its own colour-wheel television in the same years. | `public/people/peter-goldmark.jpg` |
 | Robert H. Anderson | Storage tube terminal | The Tektronix engineer. A common name. | `public/people/robert-h-anderson.jpg` |
 | Andrew Haeff | Storage tube terminal | Built the Memory Tube in the 1940s, the ancestor that Tektronix turned into a screen. | `public/people/andrew-haeff.jpg` |
 | David Hagelbarger | Nixie tube | The engineer most often named as its inventor. | `public/people/david-hagelbarger.jpg` |
